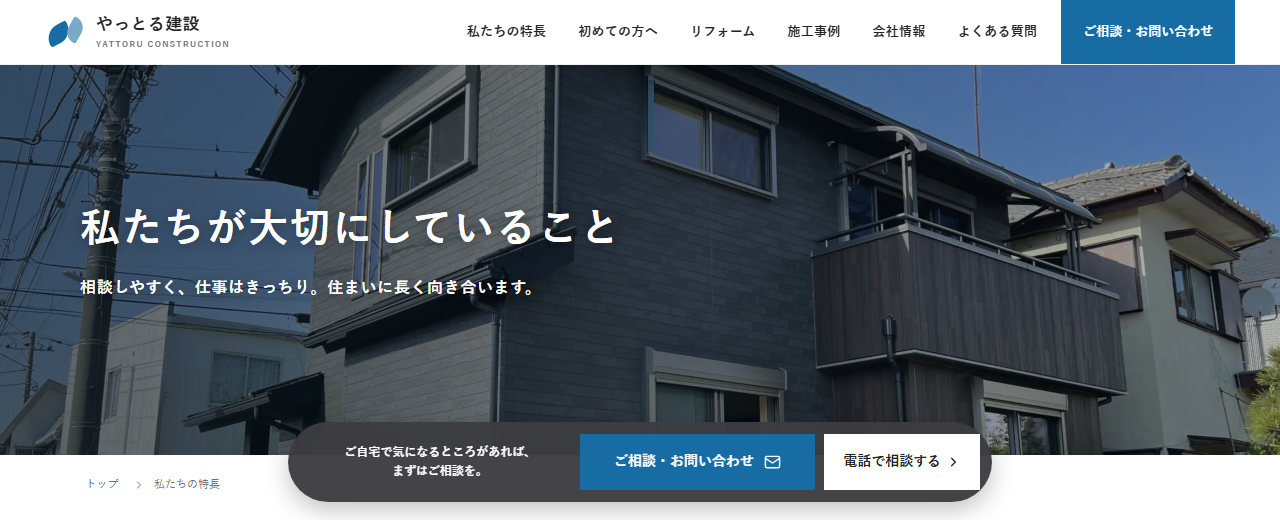
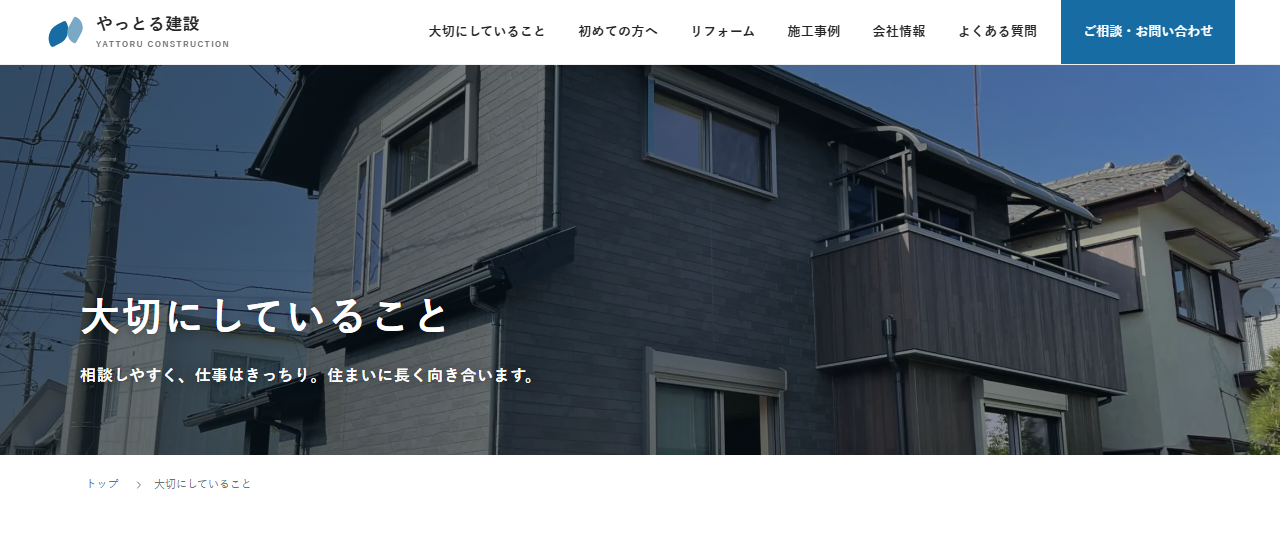
feat: ページの呼び名を統一し、ヒーローの文字位置と連番を整理
呼び名の統一（ナビ = 見出し = title。説明は既存のリード文が担う）:
  /features    私たちの特長 / 私たちが大切にしていること / 私たちの考え方
               → すべて「大切にしていること」
  /first-time  初めての方へ / 初めてリフォームを検討する方へ / 初めてのリフォーム
               → すべて「初めての方へ」
  /reform      リフォーム / 住まいのお悩みに合わせたリフォーム / リフォームメニュー
               → すべて「リフォーム」
  ナビ・フッター・パンくず・トップのボタンもあわせて変更
  実測: 9ページすべてで ナビ・h1・title が一致

「私たちの特長」を採らなかった理由:
  ヒアリング svision-5「広告っぽくて売り込みが強いサイトにはしたくない」
  svision-1「丁寧・誠実・親しみやすい」に対し、「特長」は自社の優位性を主張する語。
  「大切にしていること」はクライアント自身が h1 に書いていた言葉でもある。

ヒーローの文字位置:
  呼び名の統一で全ページ・全幅（360〜1440px）の h1 が 1 行になったため、
  上端固定をやめて下端揃え（bottom: 64px）に戻した。
  上端固定のままだと文字群が画像の中ほどに浮いて見えるという指摘に対応。
  実測: 全ページで h1 上端 221px / 下端から 64px

連番の削除:
  トップページの 01〜07 を削除（7箇所）。飛び先も総数の表示も無く、
  読む順を示す役目を果たしていなかったため。
  他ルールの :not(.section-index) は詳細度が変わるのを避けるため残置。

検査道具の修正:
  - クラスの使用箇所を app/ だけでなく components/ も見るようにした
    （共通部品が components/ へ移り、使用中のクラスを未使用と誤判定していた）
  - className={`...`} のテンプレートリテラルも拾うようにした

Claude-Session: https://claude.ai/code/session_01NbzKoUPNui8f95MSkmAMSz

diff --git a/app/page.tsx b/app/page.tsx
@@ -144,7 +144,7 @@ export default function Home() {
             <h2>相談しやすく、仕事はきっちり。</h2>
             <p><WrapText text={"ご希望とご予算を最初に整理し、\n必要な工事と選べる方法を丁寧にご説明します。\n工事が終わったあとも、\n住まいのことを気軽に相談できる関係を大切にしています。"} /></p>
             <a className="white-button" href="/features">
-              私たちの考え方を知る
+              大切にしていることを見る
               <SectionArrow />
             </a>
           </div>
@@ -160,7 +160,6 @@ export default function Home() {
             />
           </div>
           <div className="first-copy">
-            <p className="section-index">01</p>
             <h2>はじめてのリフォーム</h2>
             <p><WrapText text={"リフォームは、\n内容によって費用や工事期間、\n工事中の暮らし方が異なります。\nまずは気になる場所と、\nどんな暮らしにしたいかをお聞かせください。"} /></p>
             <ol className="flow-list">
@@ -179,7 +178,6 @@ export default function Home() {
         {services.length > 0 && (
         <section id="service" className="services section-wrap">
           <div className="section-heading">
-            <p className="section-index">02</p>
             <h2>おすすめのリフォーム</h2>
             <p><WrapText text={"住まいのお悩みが多い3つの工事を中心に、\n戸建てリフォーム全般に対応しています。"} /></p>
           </div>
@@ -207,7 +205,6 @@ export default function Home() {
         {works.length > 0 && (
         <section id="works" className="works section-wrap">
           <div className="section-heading centered">
-            <p className="section-index">03</p>
             <h2>リフォーム施工事例</h2>
             <p><WrapText text={"ご要望とご予算に向き合い、\n一つひとつ丁寧に形にした事例をご紹介します。"} /></p>
           </div>
@@ -239,7 +236,6 @@ export default function Home() {
         <section id="voice" className="voices">
           <div className="section-wrap">
             <div className="section-heading centered light">
-              <p className="section-index">04</p>
               <h2>お客様の声</h2>
               <p><WrapText text={"工事を終えたお客様からいただいた声をご紹介します。"} /></p>
             </div>
@@ -279,7 +275,6 @@ export default function Home() {
 
         <section className="info-area section-wrap">
           <div id="company" className="company-card">
-            <p className="section-index">05</p>
             <h2>会社情報</h2>
             <p><WrapText text={"福岡で、\n住まいの安心を支える地域のリフォーム会社です。"} /></p>
             <dl>
@@ -293,7 +288,6 @@ export default function Home() {
 
           {faqs.length > 0 && (
           <div id="faq" className="faq-card">
-            <p className="section-index">06</p>
             <h2>よくある質問</h2>
             <Accordion type="single" collapsible className="faq-list">
               {faqs.map((faq, index) => (
@@ -309,7 +303,6 @@ export default function Home() {
 
         <section className="news section-wrap">
           <div className="news-heading">
-            <p className="section-index">07</p>
             <h2>お知らせ</h2>
           </div>
           <div className="news-list">

diff --git a/app/globals.css b/app/globals.css
@@ -555,13 +555,11 @@ summary:focus-visible {
   padding: 58px clamp(38px, 5vw, 78px);
 }
 
-.section-index {
-  margin: 0 0 14px;
-  color: var(--blue);
-  font-size: var(--fs-caption);
-  font-weight: 700;
-  letter-spacing: 0.16em;
-}
+/* .section-index（トップページの 01〜07 の連番）は削除した。
+   飛び先も総数の表示も無く、読む順を示す役目を果たしていなかったため。
+   なお他のルールに残っている `:not(.section-index)` は、そのまま残している。
+   外すとセレクタの詳細度が下がり、どのルールが勝つかが変わるおそれがあるため。
+   .section-index を持つ要素はもう存在しないので、挙動は変わらない。 */
 
 .first-copy h2,
 .section-heading h2,
@@ -1187,12 +1185,12 @@ summary:focus-visible {
 .page-hero-copy {
   position: absolute;
   left: max(6vw, calc((100% - 1120px) / 2));
-  /* 見出しの 1 行目を全ページで同じ高さに揃える。
-     bottom だけで固定していたため、見出しが 1 行のページと 2 行のページで
-     開始位置が上下にずれていた（/features は 1 行、/first-time は 2 行）。
-     上端だけを固定し、説明文は見出しの直下に流す
-     （下端に固定すると見出しと離れて間延びして見えるため）。 */
-  top: 132px;
+  /* 文字のまとまりを下端から一定の距離に置く。
+     以前は見出しが 1 行のページと 2 行のページが混在していたため上端を固定していたが、
+     ページの呼び名を統一して見出しがすべて 1 行になったので、下端揃えに戻せる。
+     （360〜1440px の全幅で h1 が 1 行であることを実測で確認済み）
+     上端固定のままだと文字群が画像の中ほどに浮いて見えるため。 */
+  bottom: 64px;
   width: min(680px, calc(100% - 48px));
   color: var(--paper);
   text-shadow: 0 2px 12px rgba(0, 0, 0, 0.36);

diff --git a/app/features/page.tsx b/app/features/page.tsx
@@ -4,7 +4,7 @@ import { SiteFrame } from "@/components/site-chrome";
 import { Breadcrumb, ConsultationBand, PageHero, PageLead, SectionTitle } from "@/components/page-elements";
 
 export const metadata: Metadata = {
-  title: "私たちの特長｜やっとる建設",
+  title: "大切にしていること｜やっとる建設",
   description: "相談しやすく、仕事はきっちり。住まいに長く向き合います。福岡市のやっとる建設株式会社。",
 };
 
@@ -18,8 +18,8 @@ export default function FeaturesPage() {
   return (
     <SiteFrame>
       <main>
-        <PageHero title="私たちが大切にしていること" lead="相談しやすく、仕事はきっちり。住まいに長く向き合います。" image="/hero-02-exterior.webp" alt="外壁と屋根を整えた戸建て住宅の外観" position="center 62%" />
-        <Breadcrumb items={[["私たちの特長"]]} />
+        <PageHero title="大切にしていること" lead="相談しやすく、仕事はきっちり。住まいに長く向き合います。" image="/hero-02-exterior.webp" alt="外壁と屋根を整えた戸建て住宅の外観" position="center 62%" />
+        <Breadcrumb items={[["大切にしていること"]]} />
         <PageLead title={<>工事の前も、工事のあとも、<br />安心して話せる会社でありたい。</>}>
           <p>リフォームは、完成するまで仕上がりが見えにくい工事です。だからこそ、私たちはご希望とご予算を最初に確認し、必要なことを分かりやすくお伝えします。</p>
           <p>納得できないことを残したまま進めず、工事が終わったあとも相談できる関係を大切にしています。</p>

diff --git a/app/first-time/page.tsx b/app/first-time/page.tsx
@@ -3,7 +3,7 @@ import { SiteFrame } from "@/components/site-chrome";
 import { Breadcrumb, ConsultationBand, NumberedSteps, PageHero, PageLead, SectionTitle } from "@/components/page-elements";
 
 export const metadata: Metadata = {
-  title: "初めてのリフォーム｜やっとる建設",
+  title: "初めての方へ｜やっとる建設",
   description: "分からないことを、一つずつ整理しながら進めます。福岡市のやっとる建設株式会社。",
 };
 
@@ -21,7 +21,7 @@ export default function FirstTimePage() {
   return (
     <SiteFrame>
       <main>
-        <PageHero title="初めてリフォームを検討する方へ" lead="分からないことを、一つずつ整理しながら進めます。" image="/hero-01-ldk.webp" alt="梁をあらわしにした明るいリビングダイニング" position="center 58%" />
+        <PageHero title="初めての方へ" lead="分からないことを、一つずつ整理しながら進めます。" image="/hero-01-ldk.webp" alt="梁をあらわしにした明るいリビングダイニング" position="center 58%" />
         <Breadcrumb items={[["初めての方へ"]]} />
         <PageLead title={<>「いくらかかるのか」「希望どおりになるのか」<br />その不安からお聞かせください。</>}>
           <p>最初から工事内容を決めていただく必要はありません。現在困っていること、変えたいこと、ご予算を確認しながら、必要な工事を一緒に考えます。</p>

diff --git a/app/reform/page.tsx b/app/reform/page.tsx
@@ -6,7 +6,7 @@ import { Breadcrumb, ConsultationBand, PageHero, PageLead, SectionTitle } from "
 import { reformServices } from "@/lib/site-data";
 
 export const metadata: Metadata = {
-  title: "リフォームメニュー｜やっとる建設",
+  title: "リフォーム｜やっとる建設",
   description: "外壁・屋根・水まわりを中心に、戸建てリフォームに対応します。福岡市のやっとる建設株式会社。",
 };
 
@@ -14,7 +14,7 @@ export default function ReformPage() {
   return (
     <SiteFrame>
       <main>
-        <PageHero title="住まいのお悩みに合わせたリフォーム" lead="外壁・屋根・水まわりを中心に、戸建てリフォームに対応します。" image="/hero-03-water.webp" alt="入れ替えた浴室と洗面室" position="center 55%" />
+        <PageHero title="リフォーム" lead="外壁・屋根・水まわりを中心に、戸建てリフォームに対応します。" image="/hero-03-water.webp" alt="入れ替えた浴室と洗面室" position="center 55%" />
         <Breadcrumb items={[["リフォーム"]]} />
         <PageLead title={<>必要な工事を見極め、<br />暮らしに合う方法をご提案します。</>}>
           <p>建物の状態、ご希望、ご予算によって、選ぶべき工事は変わります。まずは現状を確認し、今行うことと将来考えることを整理します。</p>

diff --git a/components/site-chrome.tsx b/components/site-chrome.tsx
@@ -11,7 +11,7 @@ export function BrandMark() {
 }
 
 const navigation = [
-  ["私たちの特長", "/features"],
+  ["大切にしていること", "/features"],
   ["初めての方へ", "/first-time"],
   ["リフォーム", "/reform"],
   ["施工事例", "/works"],
@@ -77,7 +77,7 @@ export function SiteFooter() {
           <p><Clock3 aria-hidden="true" />9:00〜18:00（日曜・祝日定休）</p>
         </div>
         <nav aria-label="フッターナビゲーション">
-          <a href="/features">私たちの特長</a>
+          <a href="/features">大切にしていること</a>
           <a href="/first-time">初めての方へ</a>
           <a href="/reform">リフォーム</a>
           <a href="/works">施工事例</a>
